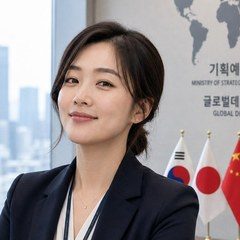
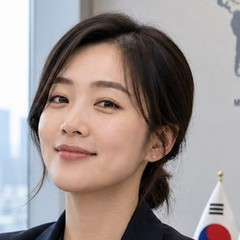
feat: 지도·광역·기초 3열, 밝은 테마, 클사무관 브랜드
Claude-Session: https://claude.ai/code/session_01F15kuicE3uCEcTtuPx6mvw

diff --git a/index.html b/index.html
@@ -3,19 +3,17 @@
 <head>
 <meta charset="utf-8">
 <meta name="viewport" content="width=device-width, initial-scale=1">
-<title>시군구 삶의 질 랭킹</title>
+<title>클사무관 시군구 지표</title>
+<link rel="icon" href="assets/clerk.jpg">
+<meta property="og:title" content="클사무관의 시군구 지표">
+<meta property="og:image" content="assets/clerk-full.jpg">
 <link rel="stylesheet" href="https://cdn.jsdelivr.net/gh/orioncactus/pretendard@v1.3.9/dist/web/variable/pretendardvariable-dynamic-subset.min.css">
 <style>
 :root{
-  --ink:#101936; --paper:#f2f4f8; --card:#ffffff; --line:#dde2ec; --mute:#6b7488;
-  --band:#101936; --hi:#1f55d6; --lo:#d9382a; --hi-bg:#eef3ff; --lo-bg:#fff1ef; --track:#e8ecf4;
+  --ink:#14275e; --paper:#f4f7fc; --card:#ffffff; --line:#dde2ec; --mute:#6b7488;
+  --band:#eaf0ff; --hi:#1f55d6; --lo:#d9382a; --hi-bg:#eef3ff; --lo-bg:#fff1ef; --track:#e8ecf4;
   --text:#101936;
   --m1:#0f3ea8;--m2:#4a78d8;--m3:#9db8ee;--m4:#f1b4a8;--m5:#cf3a2b;
-}
-@media (prefers-color-scheme:dark){
-  :root{--ink:#e9edf8; --paper:#0b0f1f; --card:#141a33; --line:#252d4d; --mute:#98a2be;
-    --band:#1d2750; --hi:#7da4ff; --lo:#ff8d7d; --hi-bg:#18234d; --lo-bg:#3a1e24; --track:#222b4d; --text:#e9edf8;
-    --m1:#7da4ff;--m2:#5a82e0;--m3:#3b538f;--m4:#8f4a52;--m5:#ff8d7d;}
 }
 *{box-sizing:border-box}
 html{-webkit-text-size-adjust:100%}
@@ -25,13 +23,17 @@ body{margin:0;background:var(--paper);color:var(--text);
 button,select,input{font:inherit;color:inherit}
 :focus-visible{outline:2px solid var(--hi);outline-offset:2px}
 
-.hd{background:var(--band);color:#fff}
-.hd-in{max-width:1200px;margin:0 auto;padding:26px 24px 22px;display:flex;justify-content:space-between;align-items:flex-end;gap:16px;flex-wrap:wrap}
-.hd h1{margin:0;font-size:26px;font-weight:750;letter-spacing:-.03em}
-.hd .sub{margin-top:2px;color:#aeb8d8;font-size:13px}
+.hd{background:#fff;border-bottom:1px solid var(--line)}
+.hd-in{max-width:1480px;margin:0 auto;padding:14px 24px;display:flex;align-items:center;gap:14px;flex-wrap:wrap}
+.brand{display:flex;align-items:center;gap:14px;text-decoration:none;color:inherit}
+.brand img{width:56px;height:56px;border-radius:50%;object-fit:cover;border:3px solid var(--hi-bg);box-shadow:0 2px 8px rgba(20,39,94,.15)}
+.brand b{display:block;font-size:24px;font-weight:800;letter-spacing:-.04em;color:var(--ink);line-height:1.1}
+.brand b em{font-style:normal;color:var(--hi)}
+.brand span{display:block;font-size:13px;color:var(--mute);margin-top:2px}
+.hd .sub{margin-left:auto;color:var(--mute);font-size:13px}
 .sample{background:#ffd75e;color:#4a3600;font-size:13px;font-weight:600;padding:8px 24px;text-align:center}
 
-.wrap{max-width:1200px;margin:0 auto;padding:22px 24px 56px;display:grid;grid-template-columns:230px 1fr;gap:28px;align-items:start}
+.wrap{max-width:1480px;margin:0 auto;padding:22px 24px 56px;display:grid;grid-template-columns:200px 1fr;gap:24px;align-items:start}
 .rail{position:sticky;top:16px;max-height:calc(100vh - 32px);overflow-y:auto;padding-right:4px}
 .rail h3{margin:18px 0 6px;font-size:13px;font-weight:700;color:var(--mute);letter-spacing:-.01em}
 .rail h3:first-child{margin-top:0}
@@ -42,31 +44,33 @@ button,select,input{font:inherit;color:inherit}
 .picker{display:none;width:100%;padding:10px 12px;border:1px solid var(--line);border-radius:10px;background:var(--card);margin-bottom:14px}
 
 .card{background:var(--card);border:1px solid var(--line);border-radius:18px;overflow:hidden}
-.card-h{padding:24px 28px 18px}
+.card-h{padding:22px 24px 16px}
 .crumb{display:inline-block;font-size:13px;font-weight:650;color:var(--hi);background:var(--hi-bg);padding:3px 10px;border-radius:999px}
 .card-h h2{margin:10px 0 10px;font-size:30px;line-height:1.2;font-weight:780;letter-spacing:-.035em}
 .meta{display:flex;flex-wrap:wrap;gap:6px 8px;margin:0;padding:0;list-style:none;color:var(--mute);font-size:13px}
 .meta li{background:var(--paper);padding:2px 10px;border-radius:6px}
 .meta li.dir{color:var(--text);font-weight:600}
 
-.finder{padding:0 28px 18px}
+.finder{padding:0 24px 16px}
 .finder input{width:100%;max-width:340px;padding:9px 14px;border:1px solid var(--line);border-radius:10px;background:var(--paper)}
 .found{display:flex;flex-wrap:wrap;gap:8px;margin-top:10px}
 .found span{font-size:13px;background:var(--paper);border:1px solid var(--line);border-radius:10px;padding:5px 11px}
 .found b{font-weight:700}.found em{font-style:normal;color:var(--mute)}
 
-.panels{display:grid;grid-template-columns:1fr 1fr;gap:18px;padding:0 28px 24px}
+.panels{display:grid;grid-template-columns:minmax(280px,.95fr) minmax(0,1fr) minmax(0,1fr);gap:16px;padding:0 24px 24px;align-items:start}
+.mappanel .mp{padding:12px 12px 14px}
+.mappanel svg{width:100%;height:auto;max-height:520px;display:block}
 .panel{border:1px solid var(--line);border-radius:14px;overflow:hidden;display:flex;flex-direction:column}
-.panel>h3{margin:0;background:var(--band);color:#fff;text-align:center;padding:13px 10px;font-size:17px;font-weight:700;letter-spacing:-.02em}
-.grp{padding:14px 16px 6px}
+.panel>h3{margin:0;background:var(--band);color:var(--ink);text-align:center;padding:12px 10px;font-size:16px;font-weight:750;letter-spacing:-.02em;border-bottom:1px solid var(--line)}
+.grp{padding:12px 12px 4px}
 .grp h4{margin:0 0 8px;font-size:14px;font-weight:700}
 .grp.top h4{color:var(--hi)} .grp.bot h4{color:var(--lo)}
 .grp ol{list-style:none;margin:0;padding:0}
-.row{display:grid;grid-template-columns:52px 1fr auto;column-gap:10px;align-items:baseline;padding:9px 12px 8px;border-radius:10px;margin-bottom:6px;background:var(--paper);border-left:4px solid var(--hi)}
+.row{display:grid;grid-template-columns:46px 1fr auto;column-gap:8px;align-items:baseline;padding:9px 12px 8px;border-radius:10px;margin-bottom:6px;background:var(--paper);border-left:4px solid var(--hi)}
 .bot .row{border-left-color:var(--lo)}
-.rk{font-size:14px;color:var(--mute);font-weight:600}
-.nm{font-size:17px;font-weight:650;letter-spacing:-.02em;min-width:0}
-.val{font-size:26px;font-weight:800;letter-spacing:-.03em;line-height:1.1;color:var(--hi)}
+.rk{white-space:nowrap;font-size:13px;color:var(--mute);font-weight:600}
+.nm{font-size:15px;overflow-wrap:anywhere;font-weight:650;letter-spacing:-.02em;min-width:0}
+.val{font-size:22px;font-weight:800;letter-spacing:-.03em;line-height:1.1;color:var(--hi)}
 .bot .val{color:var(--lo)}
 .val small{font-size:13px;font-weight:600;margin-left:2px;color:var(--mute)}
 .gauge{grid-column:2/4;height:3px;background:var(--track);border-radius:3px;margin-top:6px;overflow:hidden}
@@ -74,7 +78,7 @@ button,select,input{font:inherit;color:inherit}
 .bot .gauge i{background:var(--lo)}
 .tie{background:var(--lo-bg);border-radius:10px;padding:12px 14px;border-left:4px solid var(--lo);margin-bottom:6px}
 .grp.top .tie{background:var(--hi-bg);border-left-color:var(--hi)}
-.tie .big{font-size:26px;font-weight:800;color:var(--lo);letter-spacing:-.03em}
+.tie .big{font-size:22px;font-weight:800;color:var(--lo);letter-spacing:-.03em}
 .grp.top .tie .big{color:var(--hi)}
 .tie .big span{font-size:16px;font-weight:700;color:var(--text);margin-left:6px}
 .tie p{margin:6px 0 0;font-size:13px;color:var(--mute);line-height:1.6}
@@ -93,41 +97,40 @@ details.all[open] summary::before{content:"－ ";}
 .full .b{height:8px;background:var(--track);border-radius:4px;overflow:hidden}
 .full .b i{display:block;height:100%;background:var(--hi);opacity:.55}
 
-.mapbox{padding:0 28px 24px}
-.mapbox h3{margin:0 0 4px;font-size:16px;font-weight:700}
-.mapbox .hint{color:var(--mute);font-size:13px;margin:0 0 10px;min-height:20px}
-.mapbox .hint b{color:var(--text)}
-.mapwrap{display:grid;grid-template-columns:minmax(0,520px) 1fr;gap:24px;align-items:center}
-.mapwrap svg{width:100%;height:auto;max-height:640px;display:block}
-.mapwrap path{stroke:var(--card);stroke-width:.35;vector-effect:non-scaling-stroke;stroke-width:.6px;cursor:pointer;transition:opacity .1s}
-.mapwrap path:hover,.mapwrap path.sel{stroke:var(--ink);stroke-width:1.6px}
+.mappanel path{stroke:var(--card);stroke-width:.35;vector-effect:non-scaling-stroke;stroke-width:.6px;cursor:pointer;transition:opacity .1s}
+.mappanel path:hover,.mappanel path.sel{stroke:var(--ink);stroke-width:1.6px}
 .m0{fill:var(--track)}.m1{fill:var(--m1)}.m2{fill:var(--m2)}.m3{fill:var(--m3)}.m4{fill:var(--m4)}.m5{fill:var(--m5)}
-.legend{display:flex;align-items:center;gap:8px;font-size:12px;color:var(--mute);margin-top:6px}
+.legend span{white-space:nowrap}
+.legend{flex-wrap:wrap;display:flex;align-items:center;gap:8px;font-size:12px;color:var(--mute);margin-top:6px}
 .legend i{display:inline-block;width:26px;height:10px;border-radius:2px}
-.mapside{font-size:14px}
+.mapside{font-size:14px;margin-top:8px;padding:10px 12px;background:var(--paper);border-radius:10px;min-height:76px}
 .mapside .big{font-size:22px;font-weight:780;letter-spacing:-.03em}
 .mapside p{margin:6px 0;color:var(--mute)}
 
-.card-f{background:var(--band);color:#fff;padding:14px 28px;font-size:13px;display:flex;flex-wrap:wrap;gap:4px 18px}
+.card-f{background:var(--paper);border-top:1px solid var(--line);color:var(--ink);padding:14px 28px;font-size:13px;display:flex;flex-wrap:wrap;gap:4px 18px}
 .card-f b{font-weight:700;margin-right:6px}
-.card-f span{color:#c9d1ea}
+.card-f span{color:var(--mute)}
 
+@media (max-width:1180px) and (min-width:901px){
+  .panels{grid-template-columns:1fr 1fr}.mappanel{grid-column:1/-1}.mappanel svg{max-height:420px}
+}
 @media (max-width:900px){
   .wrap{grid-template-columns:1fr;padding:16px 14px 40px;gap:0}
   .rail{display:none}.picker{display:block}
   .card-h{padding:20px 18px 14px}.card-h h2{font-size:24px}
   .finder{padding:0 18px 14px}
   .panels{grid-template-columns:1fr;padding:0 14px 18px}
-  .mapbox{padding:0 14px 18px}.mapwrap{grid-template-columns:1fr}
   .card-f{padding:14px 18px}
-  .hd-in{padding:20px 16px 16px}.hd h1{font-size:22px}
+  .hd-in{padding:12px 16px}.hd .sub{margin-left:0;width:100%}.brand img{width:46px;height:46px}.brand b{font-size:20px}
   .full li{grid-template-columns:38px 1fr 62px}.full .b{display:none}
 }
 </style>
 </head>
 <body>
 <header class="hd"><div class="hd-in">
-  <div><h1>시군구 삶의 질 랭킹</h1><div class="sub" id="sub"></div></div>
+  <a class="brand" href="./"><img src="assets/clerk.jpg" alt="클사무관" width="56" height="56">
+    <div><b>클사무관<em>의</em> 시군구 지표</b><span>글로벌데스크 · 삶의 질 랭킹</span></div></a>
+  <div class="sub" id="sub"></div>
 </div></header>
 <div id="sample"></div>
 <main class="wrap">
@@ -230,11 +233,10 @@ function render(){
     <div class="card-h"><span class="crumb">${esc(th.name)}</span><h2>${esc(info.name)}</h2><ul class="meta">${meta}</ul></div>
     <div class="finder"><input id="q" type="search" placeholder="지역 이름으로 순위 찾기" aria-label="지역 검색"><div class="found" id="found"></div></div>
     <div class="panels">
+      <section class="panel mappanel"><h3>지도</h3><div class="mp"><div id="map"></div><div class="mapside" id="mapside"></div></div></section>
       ${panel(`광역 ${sidoItems.length}개 시도`,sidoItems,info,sidoName)}
       ${panel(`기초 ${sgItems.length}개 시군구`,sgItems,info,sgName)}
     </div>
-    <div class="mapbox"><h3>지도로 보기</h3><p class="hint" id="maphint">지역 위에 마우스를 올리거나 눌러보세요. 파란색일수록 좋은 쪽입니다.</p>
-      <div class="mapwrap"><div id="map"></div><div class="mapside" id="mapside"></div></div></div>
     <div class="card-f"><span><b>출처</b>${esc(info.source||"-")}</span>${info.note?`<span>${esc(info.note)}</span>`:""}</div>`;
 
   drawMap(sgItems.length?sgItems:null,sidoItems,info,sgName);
